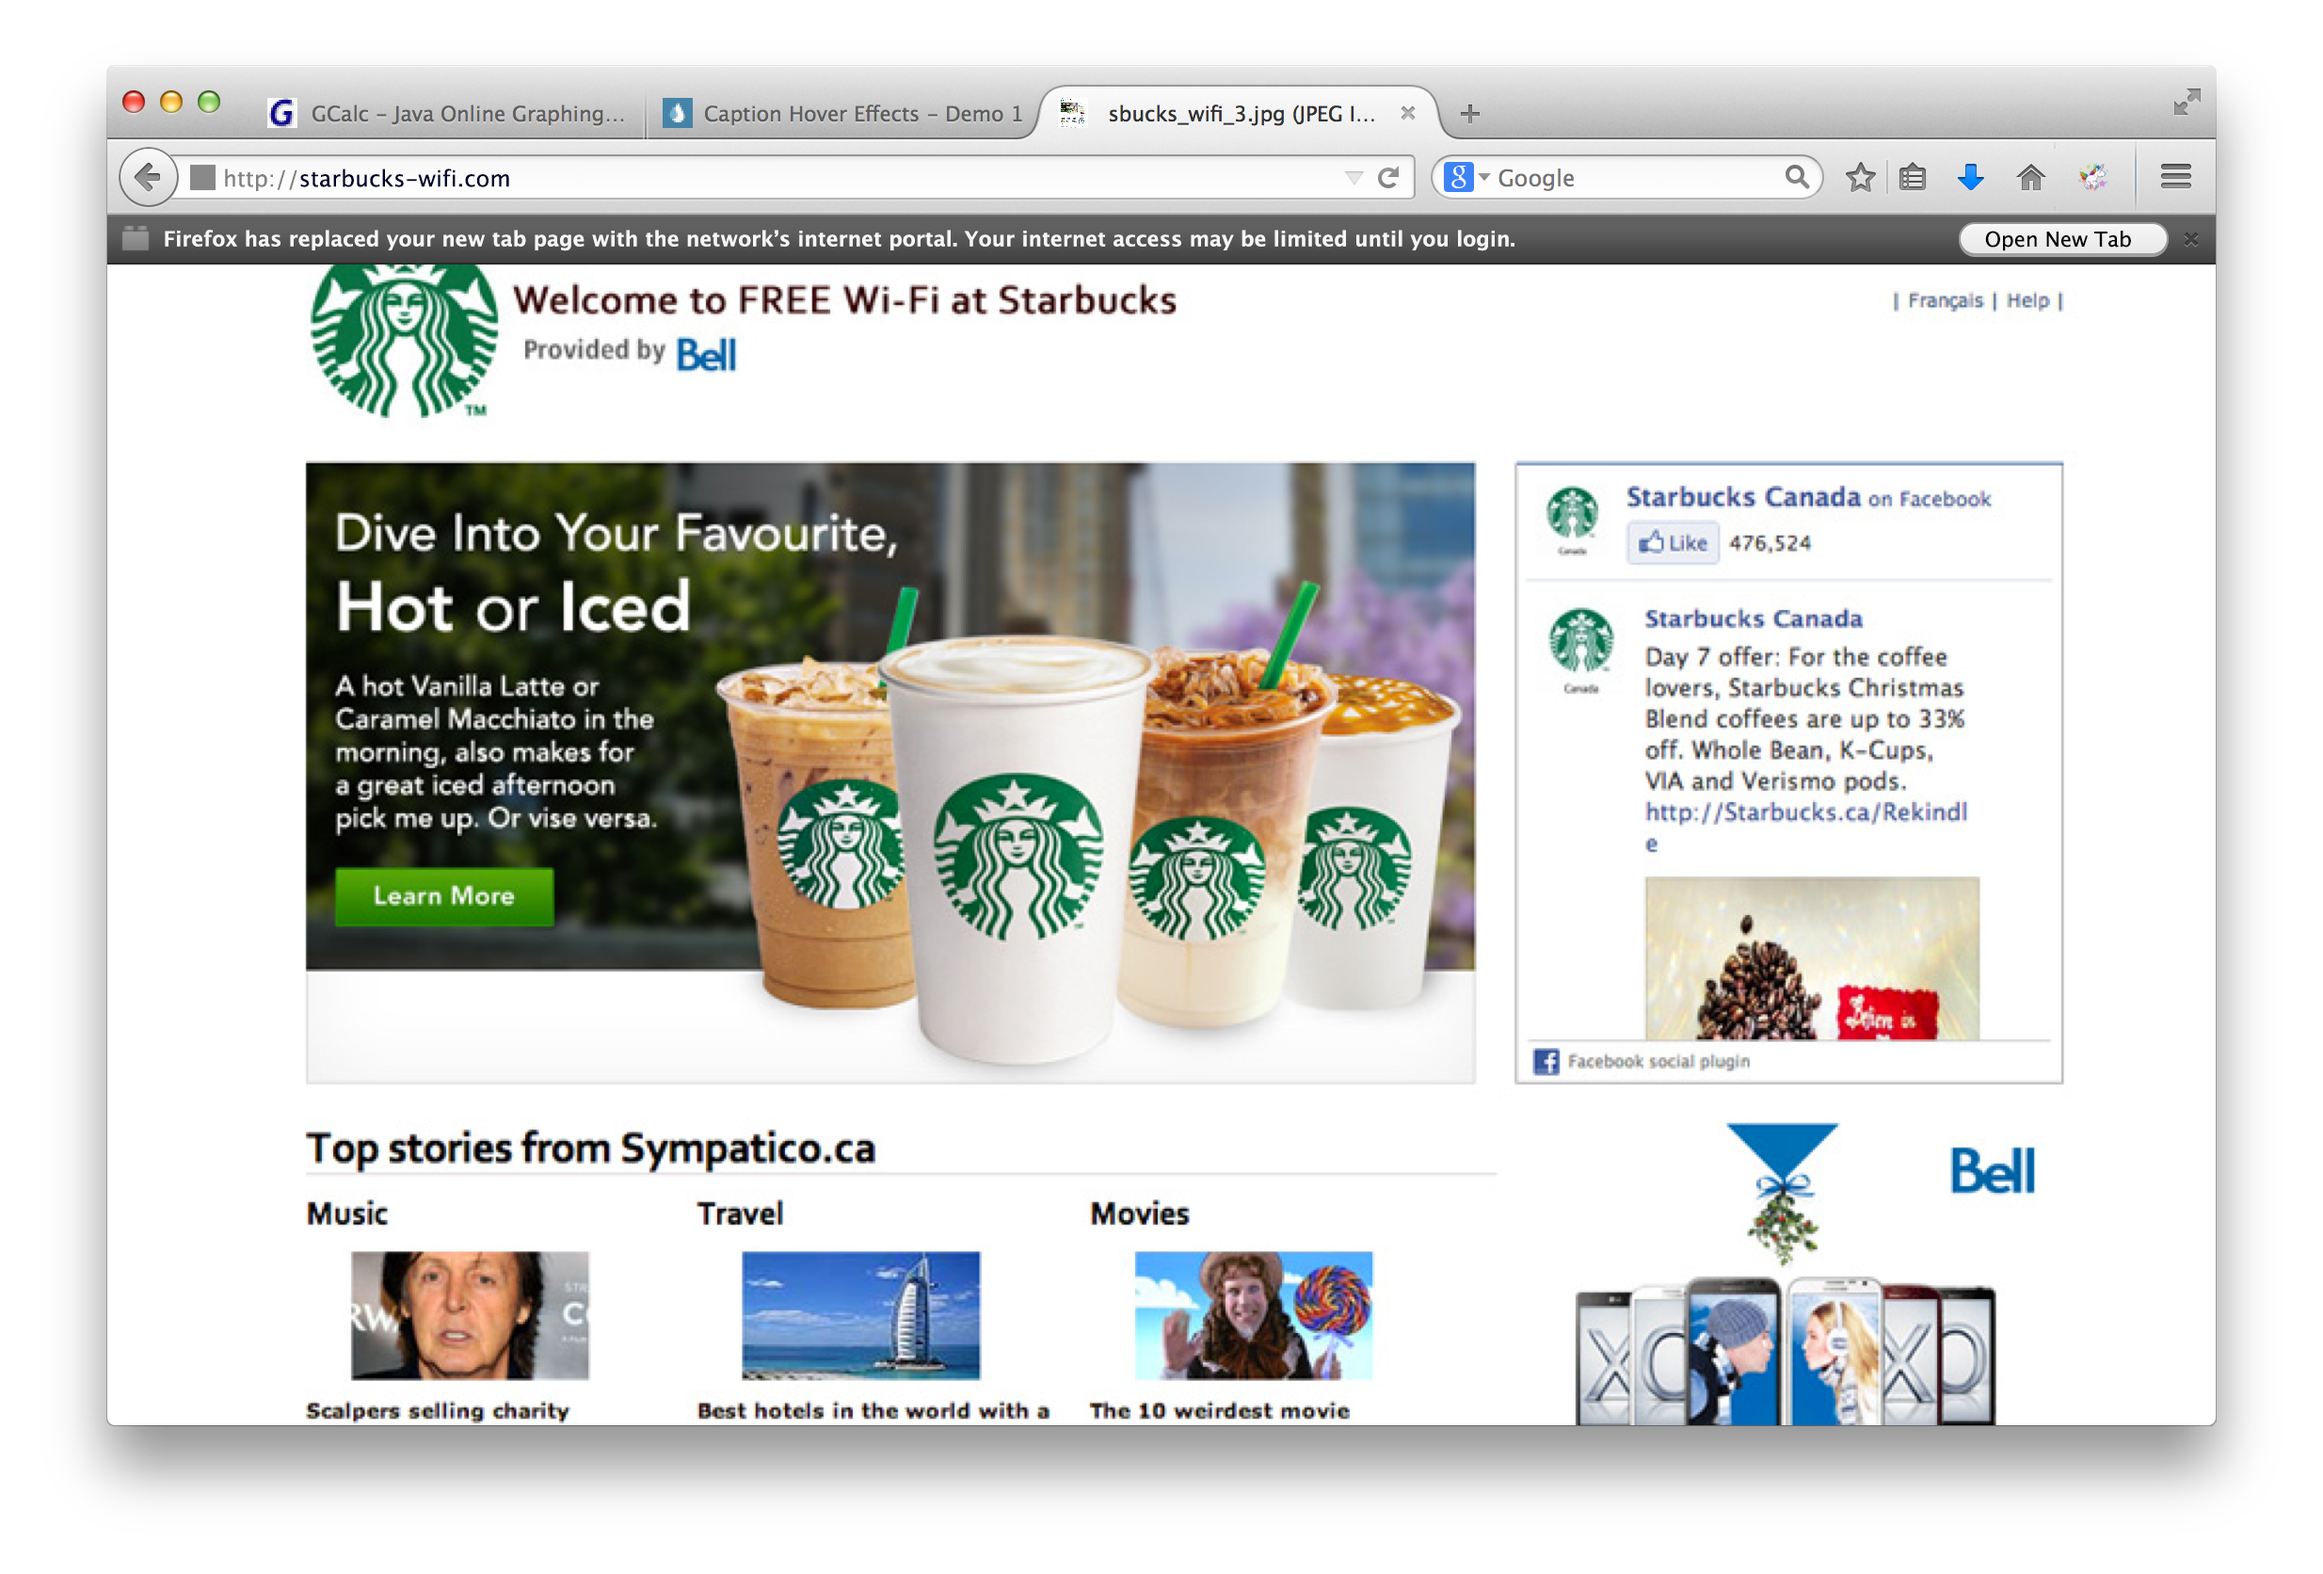
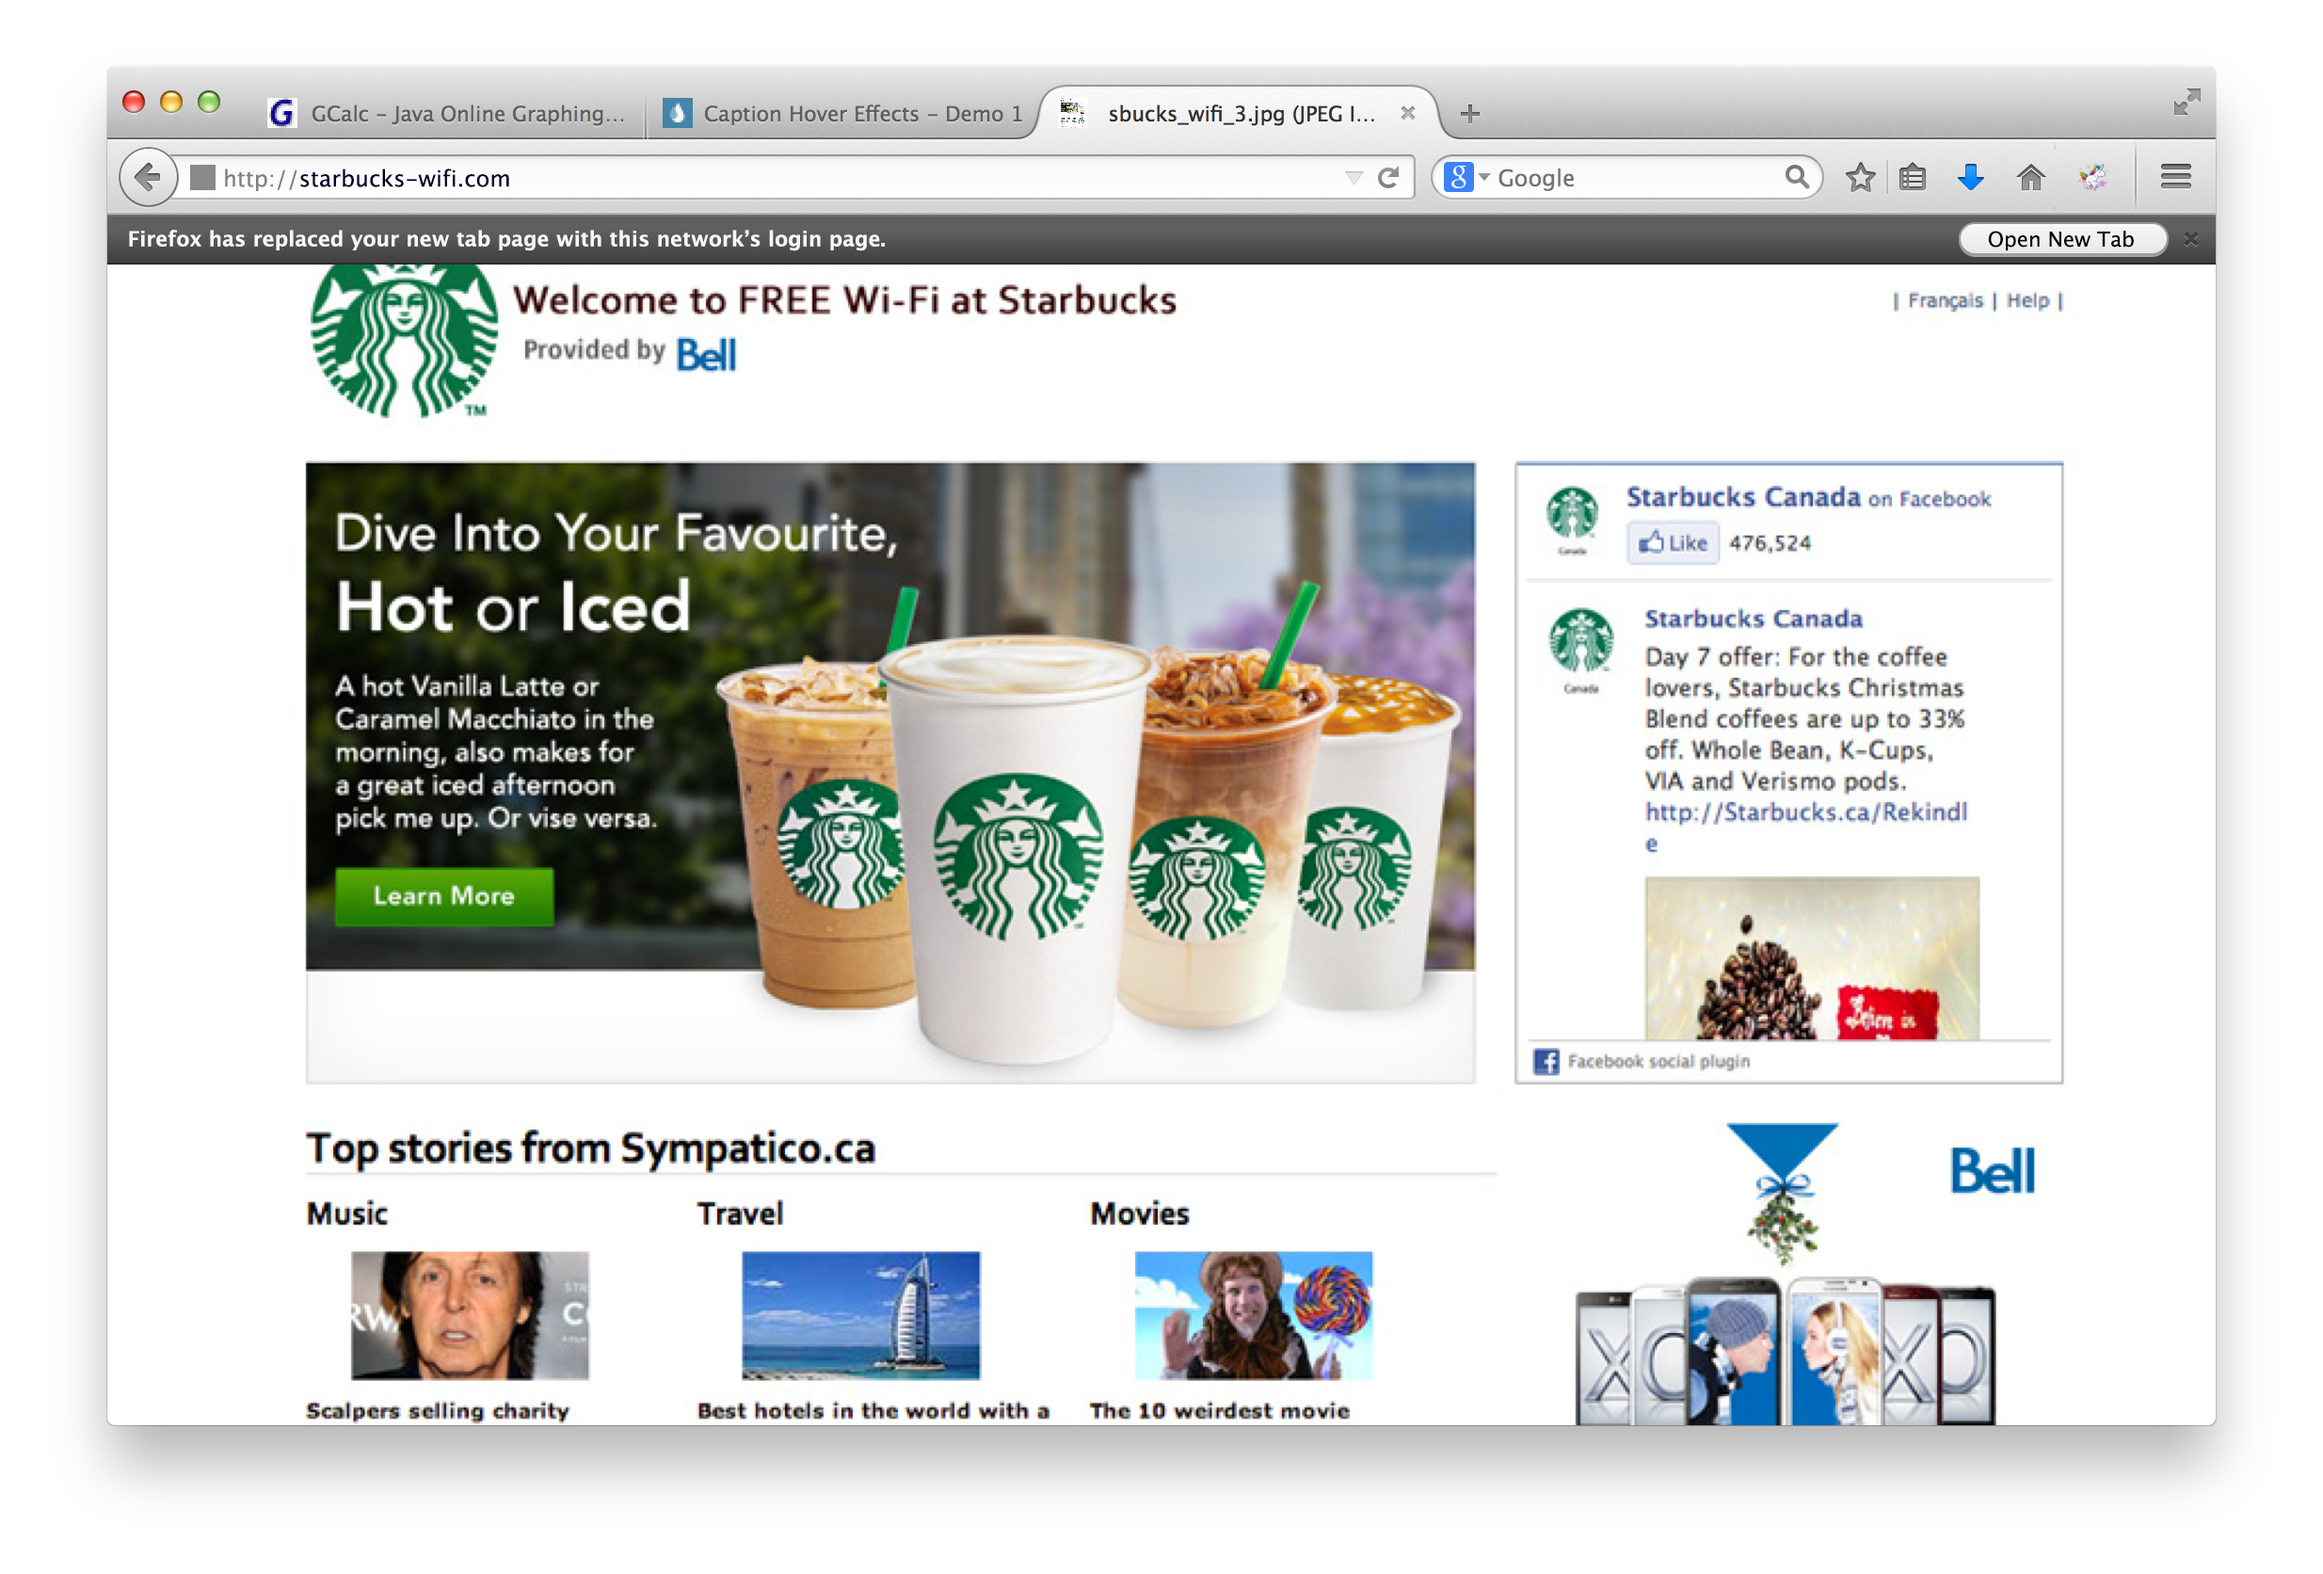
add automatic captive portal opening. Move around figure numbers.

Changed region(s): [[0.0312, 0.9019, 0.9672, 0.933], [0.0312, 0.1244, 0.6552, 0.1555], [0.8736, 0.1244, 0.9048, 0.1555]]

diff --git a/design/spec.md b/design/spec.md
@@ -1,24 +1,36 @@
 # Captive Portal Design Spec
 
+## A captive portal detected after connecting to a network.
+
+Open the detected captive portal in a new tab in the active window. This can be
+seen in Figure 1.
+
+![](wifi.login.auto.tab.png)
+
+**Figure 1:** Captive portal login automatically opened.
+
 ## A captive portal is detected but not logged in
 
 Display status bar indicator indicating the network requires a login as shown in
-Figure 1. Pressing "Open Login Page" will open a new tab and display the login
-page. Pressing the close button will close the status bar for all tabs in all
-windows.
+Figure 2.
+
+Pressing "Open Login Page" will open a new tab and display the login page.
+If the captive portal is already open, switch to the tab.
+
+Pressing the close button will close the status bar for all tabs in all windows.
 
 ![](status.bar.open.login.png)
 
-**Figure 1:** Login prompt with a status bar.
+**Figure 2:** Login prompt with a status bar.
 
 Upon opening a new tab, the user will be presented with the login page for the
 captive portal instead of the usual new tab behaviour. This is shown in
-Figure 2.
+Figure 3.
 
 If the user wishes to open the new tab page, they can do so with the button in
 the status bar shown. Pressing "open new tab" should open the usual new tab
-page. This status bar should be tab specific unlike the one shown in Figure 1.
+page. This status bar should be tab specific unlike the one shown in Figure 2.
 
 ![](wifi.login.new.tab.png)
 
-**Figure 2:** Captive portal login replaces new tab.
+**Figure 3:** Captive portal login replaces new tab.
